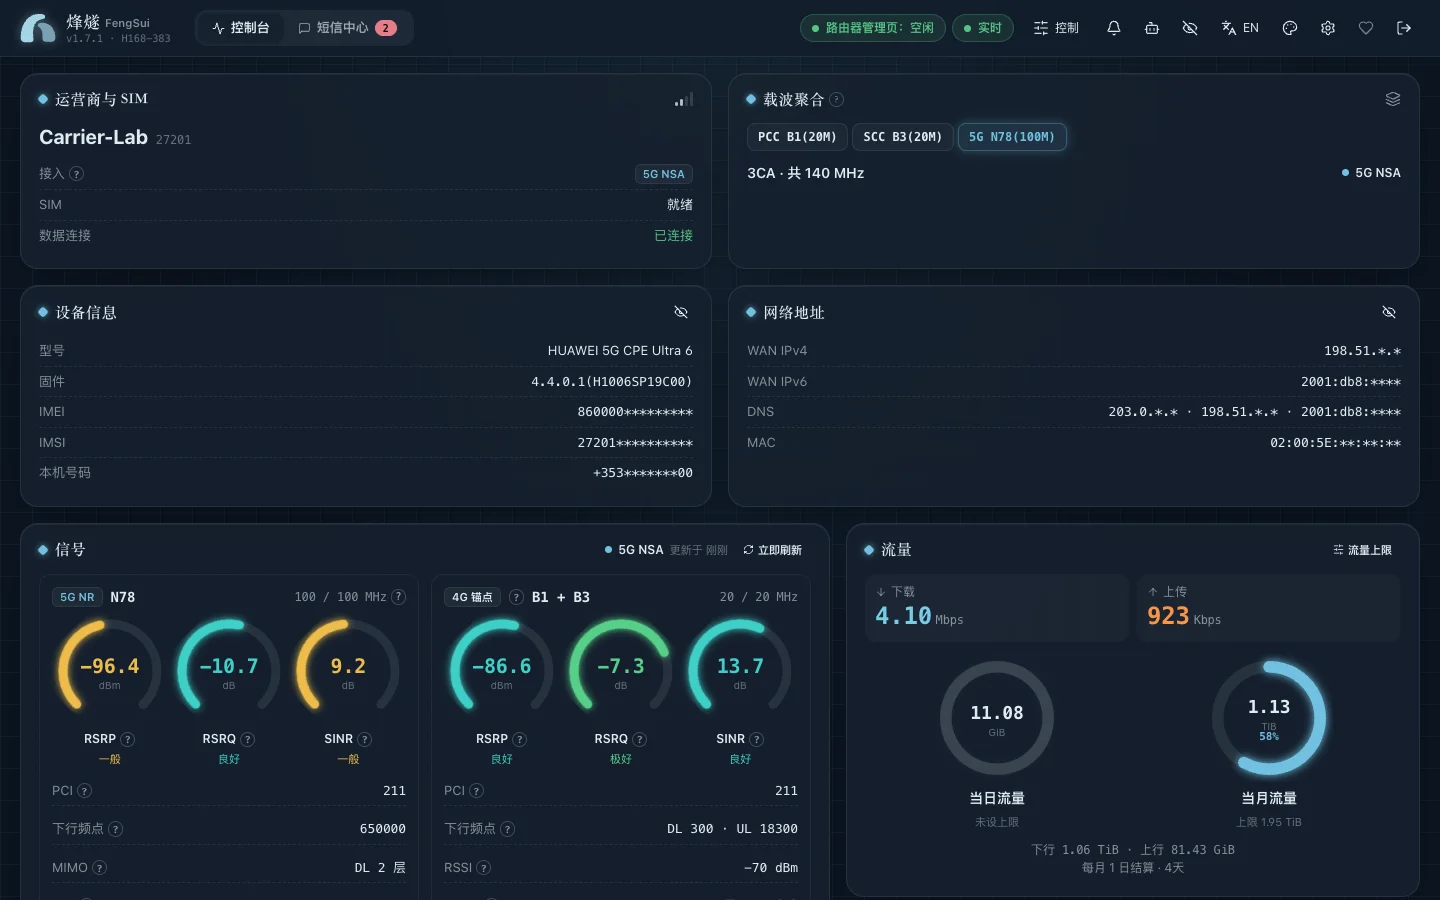
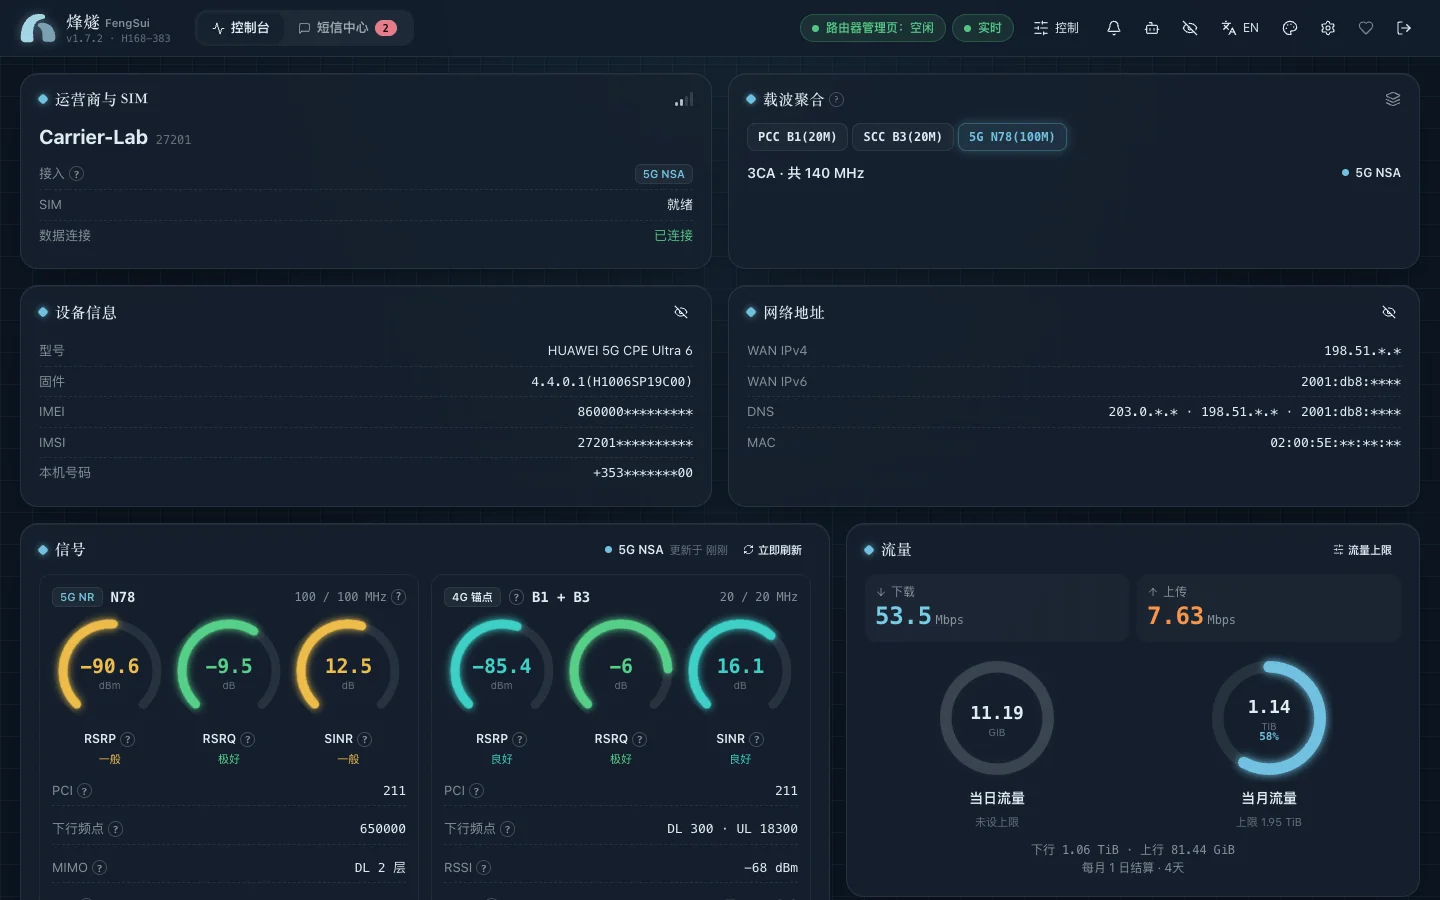
release: tag and finalize cpe-dash v1.7.2
- The console's "?" marks, the READMEs and the release notes link to
  the guide on fengsui.iocky.com directly (the github.io redirect gave
  a 404 in some browsers).
- The site's Markdown keeps code blocks, paragraphs and lists inside
  their numbered step (Synology install, changing the key).
- A guide page for docker-compose.yml: the file in full, every entry
  explained, common changes; its comments corrected; .env edits apply
  with `up -d --force-recreate`.
- The home page wipes through the console's themes; sponsor links and
  the author's site on the documentation site; devices, not terminals.

Upgrading: nothing to change; compose changed only in comments.
Screenshots retaken.

diff --git a/src/version.ts b/src/version.ts
@@ -1,2 +1,2 @@
 /** Release version reported by `GET /api/health` and the web dashboard; kept equal to package.json. */
-export const FENGSUI_VERSION = "1.7.1";
+export const FENGSUI_VERSION = "1.7.2";

diff --git a/CHANGELOG.md b/CHANGELOG.md
@@ -2,7 +2,12 @@
 
 All notable changes to 烽燧 FengSui (`cpe-dash`). Versions follow [Semantic Versioning](https://semver.org/). Each release section opens with `### Highlights` (a few changes worth a short paragraph); the GitHub release lists the other changes by their lead sentence and links here for the details.
 
-## [Unreleased]
+## [1.7.2] — 2026-11-08
+
+### Highlights
+- **Every line of `docker-compose.yml`, explained.** A new guide page shows the example compose file in full and says what each entry does, which ones to leave alone, how `.env` feeds both Compose and FengSui, and how to make the common changes.
+- **The themes on the home page.** Scroll through the documentation site's home page and the dashboard wipes from one theme to the next, light and dark in turn.
+- **Help links that always open.** The console's "?" marks link straight to the guide on fengsui.iocky.com, and steps with code blocks render properly on the site.
 
 ### Fixed
 - **The console's "?" marks open the guide on its own domain.** They linked to `cky008.github.io/cpe-dash`, which reaches the guide only through GitHub's redirect to the custom domain and gave a 404 in some browsers; the marks, the READMEs and the release notes now link to https://fengsui.iocky.com/ directly.
@@ -14,6 +19,9 @@ All notable changes to 烽燧 FengSui (`cpe-dash`). Versions follow [Semantic Ve
 - **The home page shows the themes.** Scrolling through a section of the documentation site's home page wipes the dashboard from one theme to the next on a slant, light and dark in turn, with the themes' names to jump between them. The pictures come from one frozen dashboard (`npm run screenshots -- themes`), so only the colours change; the section replaces the single dashboard picture below the hero.
 - **Support FengSui from the documentation site.** A heart in the header, a "Support FengSui" column in the footer, a short section on the home page and an FAQ answer link to GitHub Sponsors and Buy Me a Coffee (the same pages as GitHub's Sponsor button); the footer links the author's site, as the console's does.
 - **"Devices and internet access" in Chinese too.** The guide page and the home page said 终端 (terminal) where the console says 设备 (device); they now use the console's word.
+
+### Upgrading
+- Nothing to change: no setting or data format changed, and `docker-compose.yml` changed only in its comments, so an existing compose file keeps working.
 
 ## [1.7.1] — 2026-11-08
 

diff --git a/docs/PHASE2_BACKEND_CONTRACT.md b/docs/PHASE2_BACKEND_CONTRACT.md
@@ -148,7 +148,7 @@ export interface HealthResponse {
   ok: true;
   service: "cpe-dash";
   codename: "FengSui";
-  version: string;            // 当前为 "1.7.1"
+  version: string;            // 当前为 "1.7.2"
   uptimeSec: number;
 }
 ```
